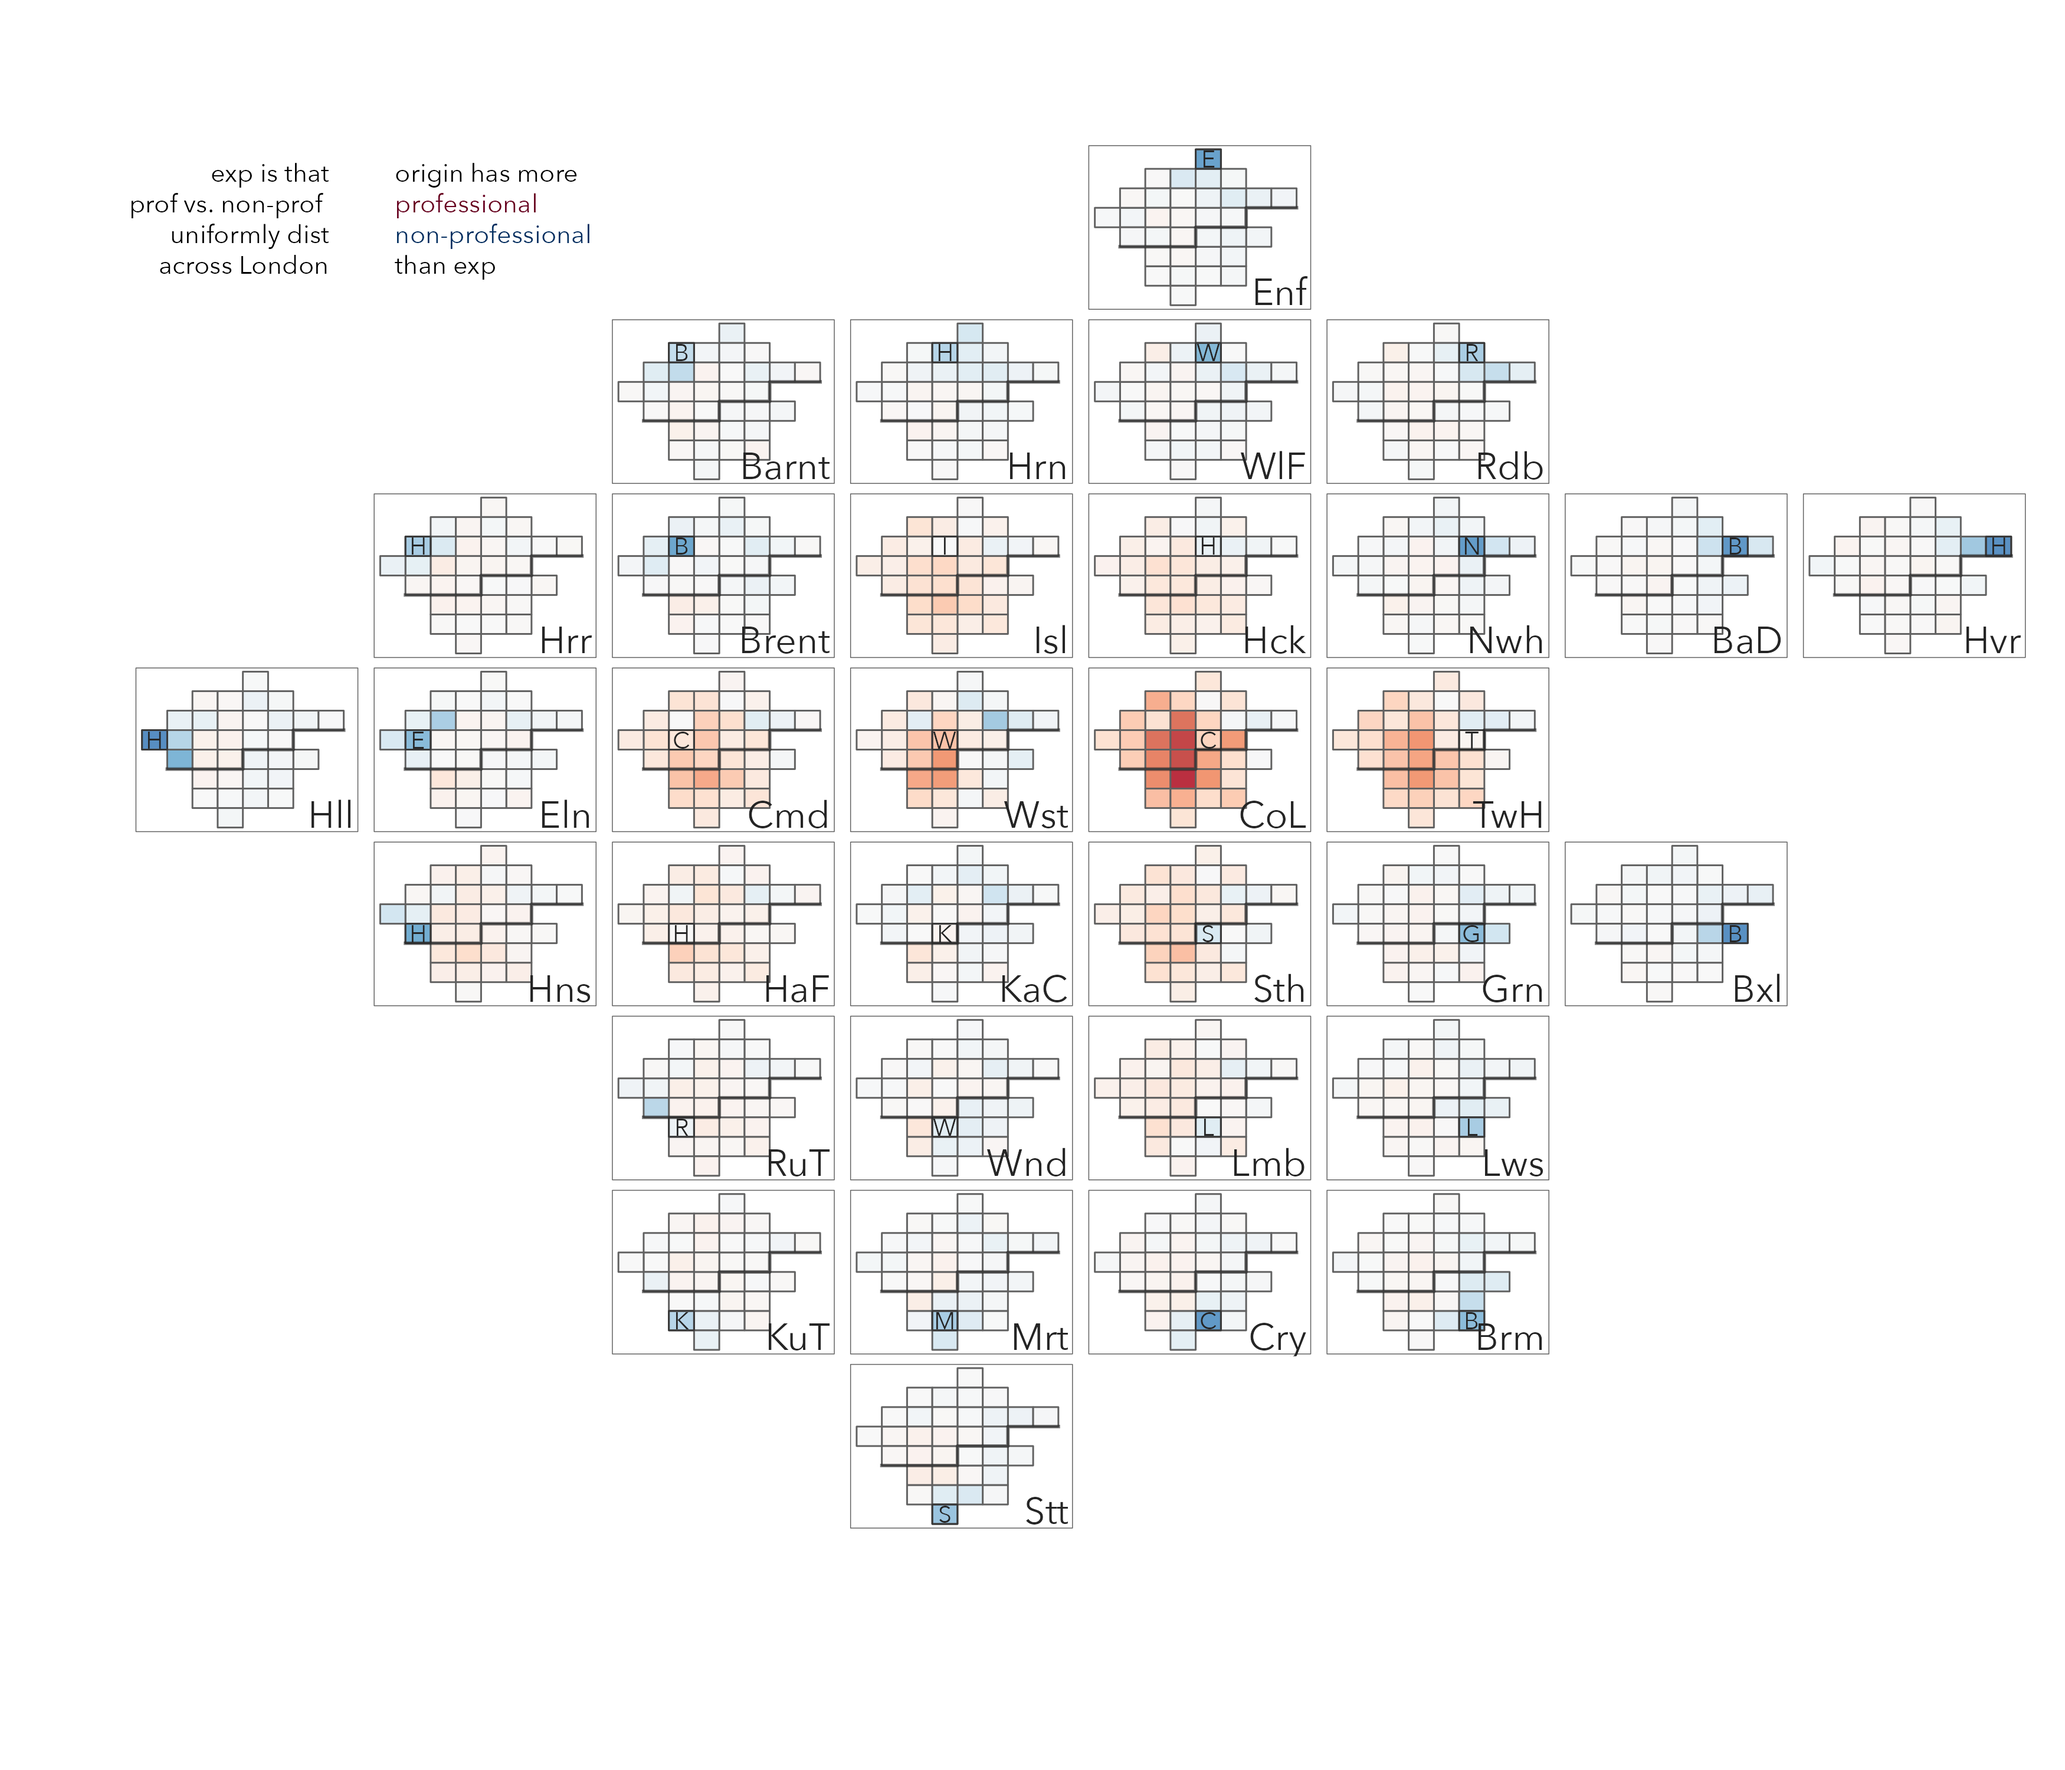
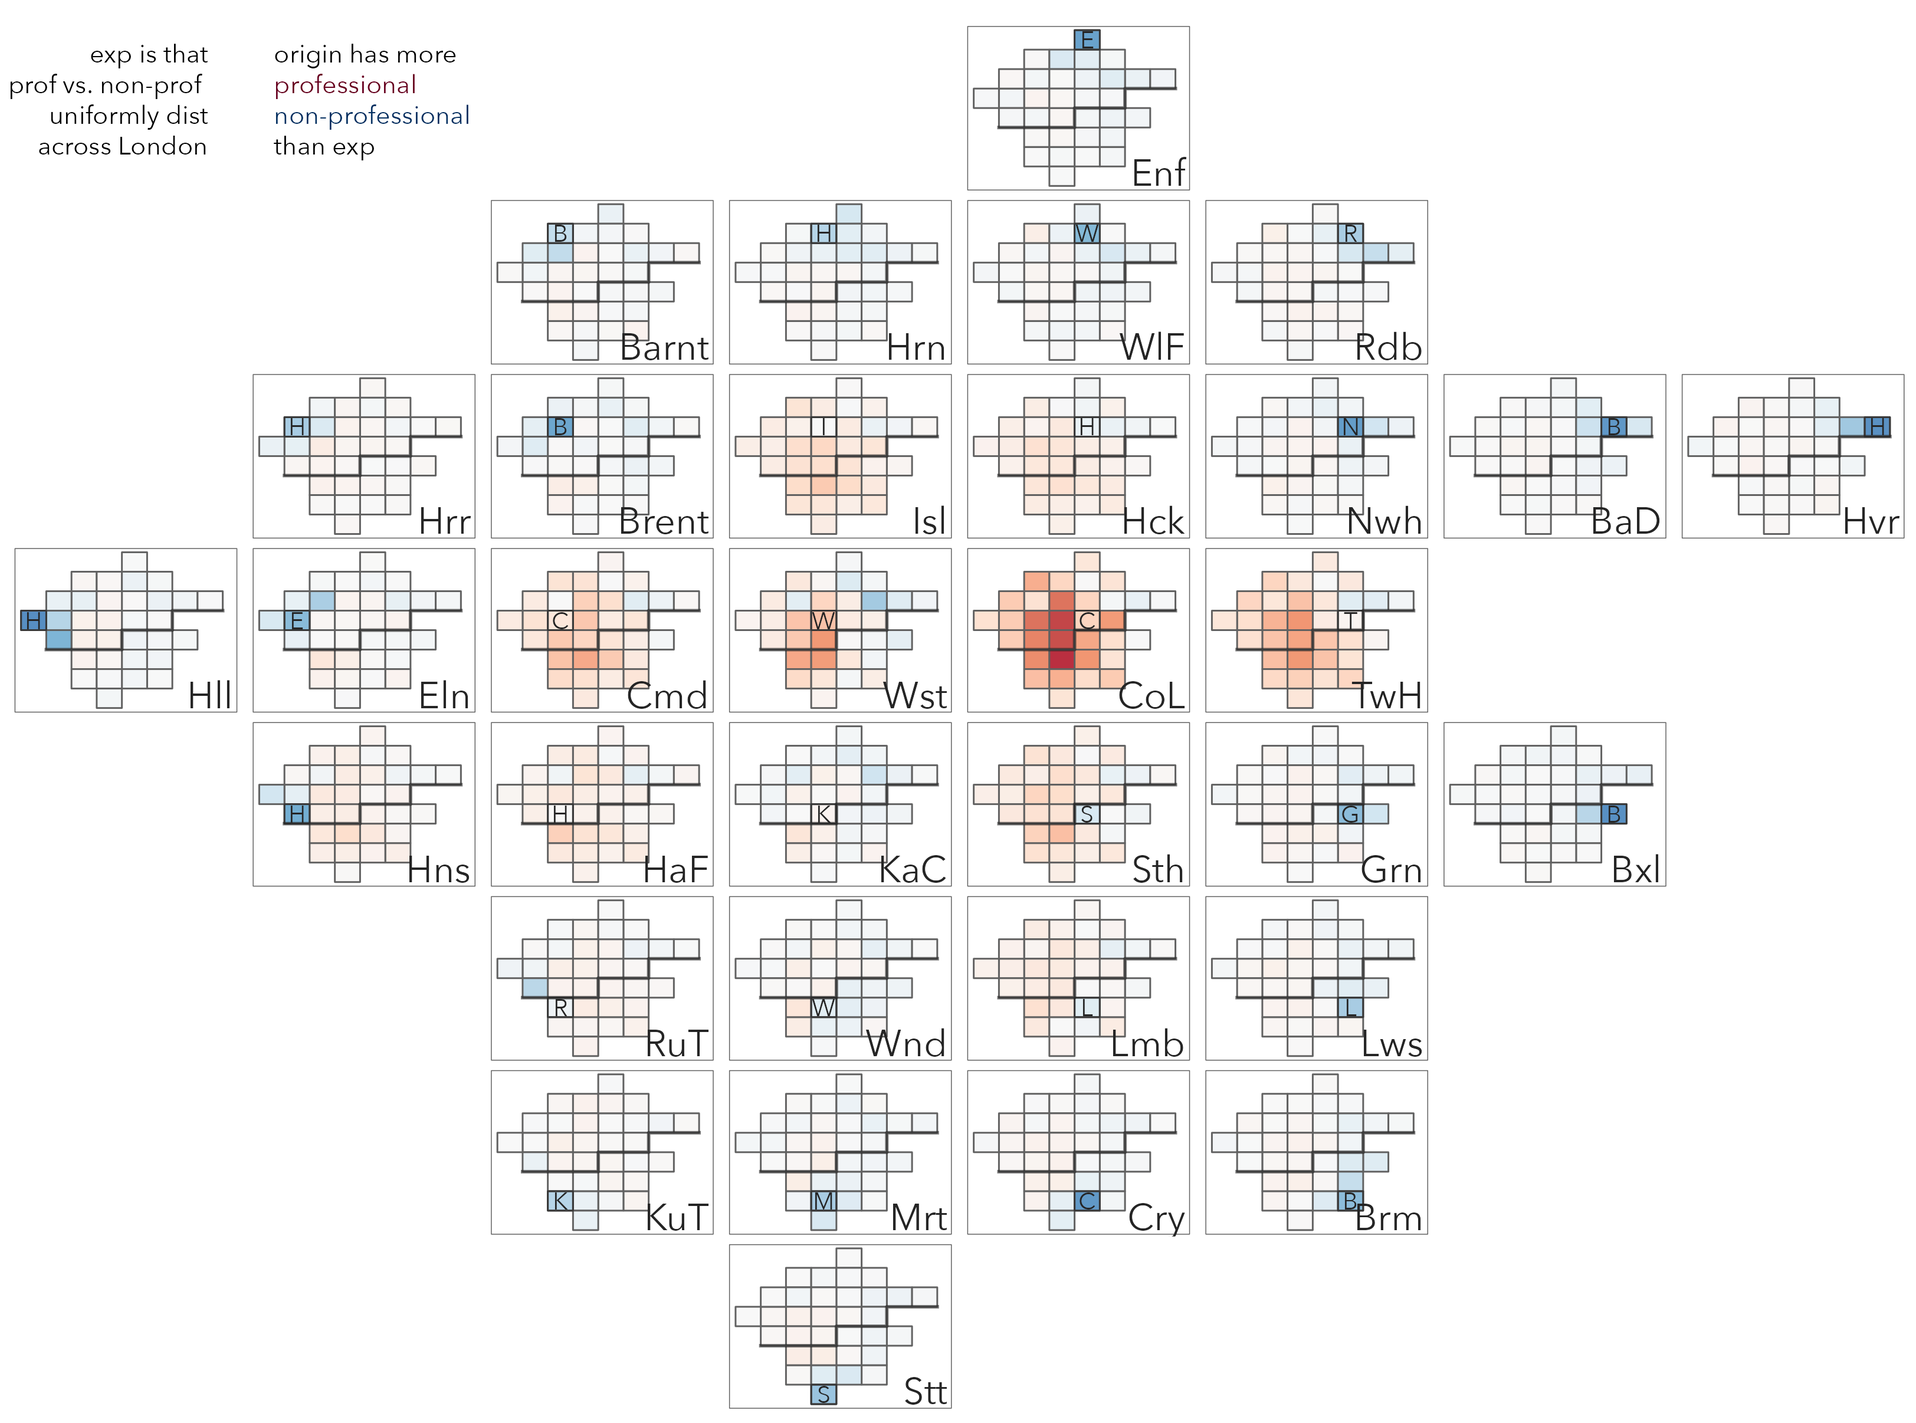
Deploy commit: adding ch5 template f0c49da916d8021c603344871a384d97dd21a566

Changed region(s): [[0.0, 0.0, 0.9951, 0.9946]]

diff --git a/05-network.html b/05-network.html
@@ -644,6 +644,7 @@ The analysis above might give the impression that OD maps should be used in pref
 <div class="cell">
 <div class="sourceCode" id="cb6"><pre class="downlit sourceCode r code-with-copy"><code class="sourceCode R"><span><span class="co"># Install odvis.</span></span>
 <span><span class="fu">devtools</span><span class="fu">::</span><span class="fu"><a href="https://remotes.r-lib.org/reference/install_github.html">install_github</a></span><span class="op">(</span><span class="st">"rogerbeecham/odvis"</span><span class="op">)</span></span>
+<span><span class="kw"><a href="https://rdrr.io/r/base/library.html">library</a></span><span class="op">(</span><span class="va">odvis</span><span class="op">)</span></span>
 <span></span>
 <span><span class="co"># Combine the grid and london_boroughs (real geography)</span></span>
 <span><span class="co"># objects into a single simple features data frame.</span></span>
@@ -658,15 +659,15 @@ The analysis above might give the impression that OD maps should be used in pref
 <span><span class="co"># -- origin, destination and control point locations.</span></span>
 <span><span class="va">trajectories</span> <span class="op">&lt;-</span> <span class="va">lon_geogs</span> <span class="op">|&gt;</span></span>
 <span>  <span class="fu">st_drop_geometry</span><span class="op">(</span><span class="op">)</span> <span class="op">|&gt;</span></span>
-<span>  <span class="fu"><a href="https://rdrr.io/r/stats/filter.html">filter</a></span><span class="op">(</span><span class="op">!</span><span class="fu"><a href="https://rdrr.io/r/base/NA.html">is.na</a></span><span class="op">(</span><span class="va">ward_name</span><span class="op">)</span><span class="op">)</span> <span class="op">|&gt;</span></span>
+<span>  <span class="fu"><a href="https://rdrr.io/r/stats/filter.html">filter</a></span><span class="op">(</span><span class="op">!</span><span class="fu"><a href="https://rdrr.io/r/base/NA.html">is.na</a></span><span class="op">(</span><span class="va">area_name</span><span class="op">)</span><span class="op">)</span> <span class="op">|&gt;</span></span>
 <span>  <span class="fu">pivot_wider</span><span class="op">(</span>names_from <span class="op">=</span> <span class="va">type</span>, values_from <span class="op">=</span> <span class="fu"><a href="https://rdrr.io/r/base/c.html">c</a></span><span class="op">(</span><span class="va">x</span>, <span class="va">y</span><span class="op">)</span><span class="op">)</span> <span class="op">|&gt;</span></span>
 <span>  <span class="fu">mutate</span><span class="op">(</span>id <span class="op">=</span> <span class="fu">row_number</span><span class="op">(</span><span class="op">)</span><span class="op">)</span> <span class="op">|&gt;</span></span>
-<span>  <span class="fu">nest</span><span class="op">(</span>data <span class="op">=</span> <span class="fu"><a href="https://rdrr.io/r/base/c.html">c</a></span><span class="op">(</span><span class="va">ward_name</span>, <span class="va">x_real</span>, <span class="va">y_real</span>, <span class="va">x_grid</span>, <span class="va">y_grid</span><span class="op">)</span><span class="op">)</span> <span class="op">|&gt;</span></span>
+<span>  <span class="fu">nest</span><span class="op">(</span>data <span class="op">=</span> <span class="fu"><a href="https://rdrr.io/r/base/c.html">c</a></span><span class="op">(</span><span class="va">area_name</span>, <span class="va">x_real</span>, <span class="va">y_real</span>, <span class="va">x_grid</span>, <span class="va">y_grid</span><span class="op">)</span><span class="op">)</span> <span class="op">|&gt;</span></span>
 <span>  <span class="fu">mutate</span><span class="op">(</span></span>
 <span>    trajectory <span class="op">=</span> <span class="fu">map</span><span class="op">(</span></span>
 <span>      <span class="va">data</span>,</span>
 <span>      <span class="op">~</span><span class="fu">get_trajectory</span><span class="op">(</span></span>
-<span>        <span class="va">.x</span><span class="op">$</span><span class="va">x_real</span>, <span class="va">.x</span><span class="op">$</span><span class="va">y_real</span>, <span class="va">.x</span><span class="op">$</span><span class="va">x_grid</span>, <span class="va">.x</span><span class="op">$</span><span class="va">y_grid</span>, <span class="va">.x</span><span class="op">$</span><span class="va">ward_name</span></span>
+<span>        <span class="va">.x</span><span class="op">$</span><span class="va">x_real</span>, <span class="va">.x</span><span class="op">$</span><span class="va">y_real</span>, <span class="va">.x</span><span class="op">$</span><span class="va">x_grid</span>, <span class="va">.x</span><span class="op">$</span><span class="va">y_grid</span>, <span class="va">.x</span><span class="op">$</span><span class="va">area_name</span></span>
 <span>        <span class="op">)</span></span>
 <span>    <span class="op">)</span></span>
 <span>  <span class="op">)</span> <span class="op">|&gt;</span></span>
@@ -686,7 +687,8 @@ The analysis above might give the impression that OD maps should be used in pref
 <span>    colour <span class="op">=</span> <span class="st">"#08306b"</span>, linewidth <span class="op">=</span> <span class="fl">.4</span></span>
 <span>    <span class="op">)</span> <span class="op">+</span></span>
 <span>  <span class="fu">scale_fill_manual</span><span class="op">(</span>values <span class="op">=</span> <span class="fu"><a href="https://rdrr.io/r/base/c.html">c</a></span><span class="op">(</span><span class="st">"#f0f0f0"</span>, <span class="st">"transparent"</span><span class="op">)</span>, guide <span class="op">=</span> <span class="st">"none"</span><span class="op">)</span> <span class="op">+</span></span>
-<span>  <span class="fu">scale_colour_manual</span><span class="op">(</span>values <span class="op">=</span> <span class="fu"><a href="https://rdrr.io/r/base/c.html">c</a></span><span class="op">(</span><span class="st">"#FFFFFF"</span>, <span class="st">"#525252"</span><span class="op">)</span>, guide <span class="op">=</span> <span class="st">"none"</span><span class="op">)</span></span></code><button title="Copy to Clipboard" class="code-copy-button"><i class="bi"></i></button></pre></div>
+<span>  <span class="fu">scale_colour_manual</span><span class="op">(</span>values <span class="op">=</span> <span class="fu"><a href="https://rdrr.io/r/base/c.html">c</a></span><span class="op">(</span><span class="st">"#FFFFFF"</span>, <span class="st">"#525252"</span><span class="op">)</span>, guide <span class="op">=</span> <span class="st">"none"</span><span class="op">)</span> <span class="op">+</span></span>
+<span>  <span class="fu">theme_void</span><span class="op">(</span><span class="op">)</span></span></code><button title="Copy to Clipboard" class="code-copy-button"><i class="bi"></i></button></pre></div>
 </div>
 </section><section id="analysing-over-the-nodes-boroughs" class="level3" data-number="5.3.3"><h3 data-number="5.3.3" class="anchored" data-anchor-id="analysing-over-the-nodes-boroughs">
 <span class="header-section-number">5.3.3</span> Analysing over the nodes (boroughs)</h3>
@@ -831,7 +833,21 @@ The analysis above might give the impression that OD maps should be used in pref
 </div>
 <p>The code:</p>
 <div class="cell">
-<div class="sourceCode" id="cb10"><pre class="downlit sourceCode r code-with-copy"><code class="sourceCode R"><span><span class="va">plot_data</span> <span class="op">&lt;-</span> <span class="va">edges</span> <span class="op">|&gt;</span> <span class="fu">mutate</span><span class="op">(</span>non_prof <span class="op">=</span> <span class="va">commutes</span><span class="op">-</span><span class="va">is_prof</span><span class="op">)</span> <span class="op">|&gt;</span></span>
+<div class="sourceCode" id="cb10"><pre class="downlit sourceCode r code-with-copy"><code class="sourceCode R"><span><span class="va">edges</span> <span class="op">&lt;-</span> <span class="va">od_pairs</span> <span class="op">|&gt;</span> </span>
+<span>  <span class="fu">group_by</span><span class="op">(</span><span class="va">o_bor</span>, <span class="va">d_bor</span><span class="op">)</span>  <span class="op">|&gt;</span>  </span>
+<span>  <span class="fu">summarise</span><span class="op">(</span></span>
+<span>    commutes <span class="op">=</span> <span class="fu"><a href="https://rdrr.io/r/base/sum.html">sum</a></span><span class="op">(</span><span class="va">count</span><span class="op">)</span>,</span>
+<span>    is_prof <span class="op">=</span> <span class="fu"><a href="https://rdrr.io/r/base/sum.html">sum</a></span><span class="op">(</span><span class="va">count</span><span class="op">[</span><span class="va">is_prof</span><span class="op">]</span><span class="op">)</span>,</span>
+<span>    prop_prof<span class="op">=</span> <span class="va">is_prof</span><span class="op">/</span><span class="va">commutes</span></span>
+<span>    <span class="op">)</span> <span class="op">|&gt;</span>  </span>
+<span>  <span class="fu">ungroup</span><span class="op">(</span><span class="op">)</span> <span class="op">|&gt;</span> </span>
+<span>  <span class="fu">left_join</span><span class="op">(</span><span class="va">grid</span>, by<span class="op">=</span><span class="fu"><a href="https://rdrr.io/r/base/c.html">c</a></span><span class="op">(</span><span class="st">"o_bor"</span><span class="op">=</span><span class="st">"area_name"</span><span class="op">)</span><span class="op">)</span> <span class="op">|&gt;</span> <span class="fu">st_drop_geometry</span><span class="op">(</span><span class="op">)</span> <span class="op">|&gt;</span>  <span class="fu">select</span><span class="op">(</span><span class="op">-</span><span class="va">geom</span><span class="op">)</span> <span class="op">|&gt;</span> </span>
+<span>  <span class="fu">rename</span><span class="op">(</span>o_x<span class="op">=</span><span class="va">x</span>, o_y<span class="op">=</span><span class="va">y</span>, o_col<span class="op">=</span><span class="va">col</span>, o_row<span class="op">=</span><span class="va">row</span><span class="op">)</span> <span class="op">|&gt;</span> </span>
+<span>  <span class="fu">left_join</span><span class="op">(</span><span class="va">grid</span>, by<span class="op">=</span><span class="fu"><a href="https://rdrr.io/r/base/c.html">c</a></span><span class="op">(</span><span class="st">"d_bor"</span><span class="op">=</span><span class="st">"area_name"</span><span class="op">)</span><span class="op">)</span> <span class="op">|&gt;</span> <span class="fu">st_drop_geometry</span><span class="op">(</span><span class="op">)</span> <span class="op">|&gt;</span>  <span class="fu">select</span><span class="op">(</span><span class="op">-</span><span class="va">geom</span><span class="op">)</span> <span class="op">|&gt;</span> </span>
+<span>  <span class="fu">rename</span><span class="op">(</span>d_x<span class="op">=</span><span class="va">x</span>, d_y<span class="op">=</span><span class="va">y</span>, d_col<span class="op">=</span><span class="va">col</span>, d_row<span class="op">=</span><span class="va">row</span><span class="op">)</span></span>
+<span></span>
+<span></span>
+<span><span class="va">plot_data</span> <span class="op">&lt;-</span> <span class="va">edges</span> <span class="op">|&gt;</span> <span class="fu">mutate</span><span class="op">(</span>non_prof <span class="op">=</span> <span class="va">commutes</span><span class="op">-</span><span class="va">is_prof</span><span class="op">)</span> <span class="op">|&gt;</span></span>
 <span>  <span class="fu">rename</span><span class="op">(</span>prof <span class="op">=</span> <span class="va">is_prof</span><span class="op">)</span> <span class="op">|&gt;</span></span>
 <span>  <span class="fu">ungroup</span><span class="op">(</span><span class="op">)</span> <span class="op">|&gt;</span></span>
 <span>  <span class="fu">mutate</span><span class="op">(</span>global_prof <span class="op">=</span> <span class="fu"><a href="https://rdrr.io/r/base/sum.html">sum</a></span><span class="op">(</span><span class="va">prof</span><span class="op">)</span> <span class="op">/</span> <span class="fu"><a href="https://rdrr.io/r/base/sum.html">sum</a></span><span class="op">(</span><span class="va">prof</span> <span class="op">+</span> <span class="va">non_prof</span><span class="op">)</span><span class="op">)</span> <span class="op">|&gt;</span></span>
@@ -854,7 +870,7 @@ The analysis above might give the impression that OD maps should be used in pref
 <span></span>
 <span><span class="va">bbox_grid</span> <span class="op">&lt;-</span> <span class="fu">st_bbox</span><span class="op">(</span><span class="va">grid</span><span class="op">)</span></span>
 <span></span>
-<span><span class="va">plot</span> <span class="op">&lt;-</span> <span class="va">plot_data</span> <span class="op">|&gt;</span></span>
+<span><span class="va">plot_data</span> <span class="op">|&gt;</span></span>
 <span>  <span class="fu">ggplot</span><span class="op">(</span><span class="op">)</span> <span class="op">+</span></span>
 <span>  <span class="fu">geom_sf</span><span class="op">(</span><span class="fu">aes</span><span class="op">(</span>fill<span class="op">=</span><span class="va">resid</span><span class="op">)</span>, colour <span class="op">=</span> <span class="st">"#616161"</span>, size <span class="op">=</span> <span class="fl">0.15</span>, alpha <span class="op">=</span> <span class="fl">0.9</span><span class="op">)</span> <span class="op">+</span></span>
 <span>  <span class="fu">geom_sf</span><span class="op">(</span></span>
